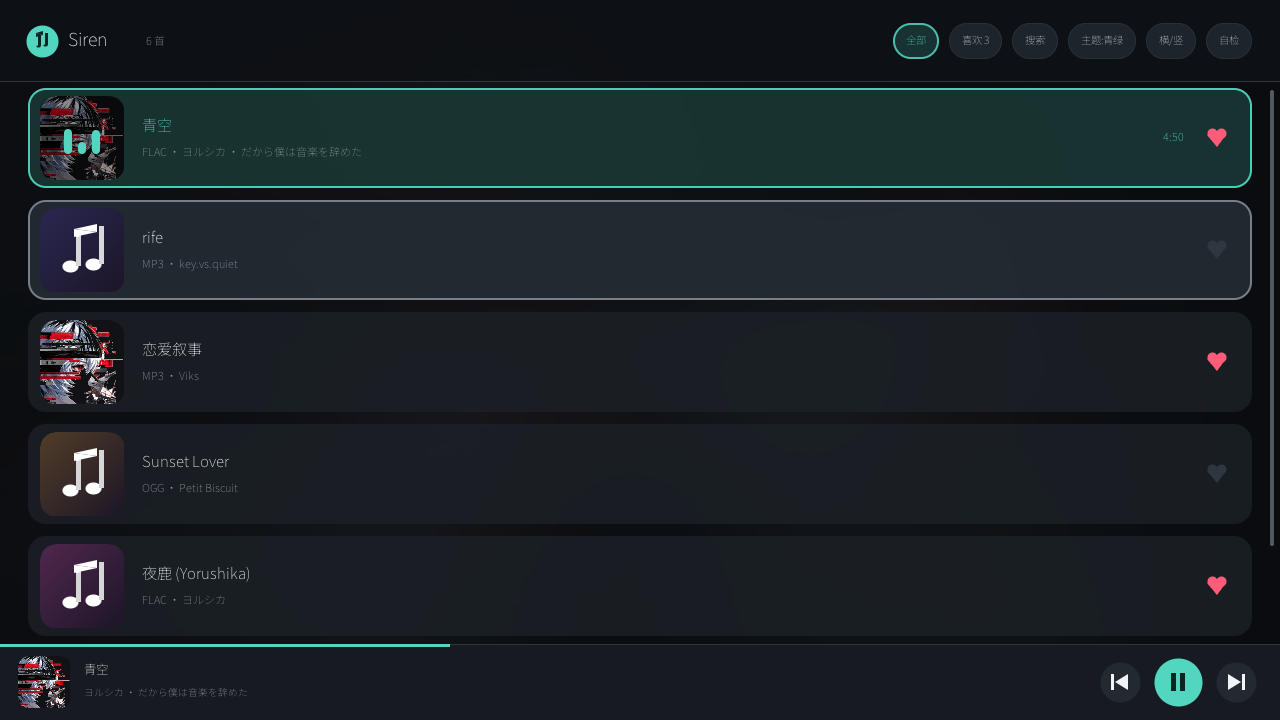
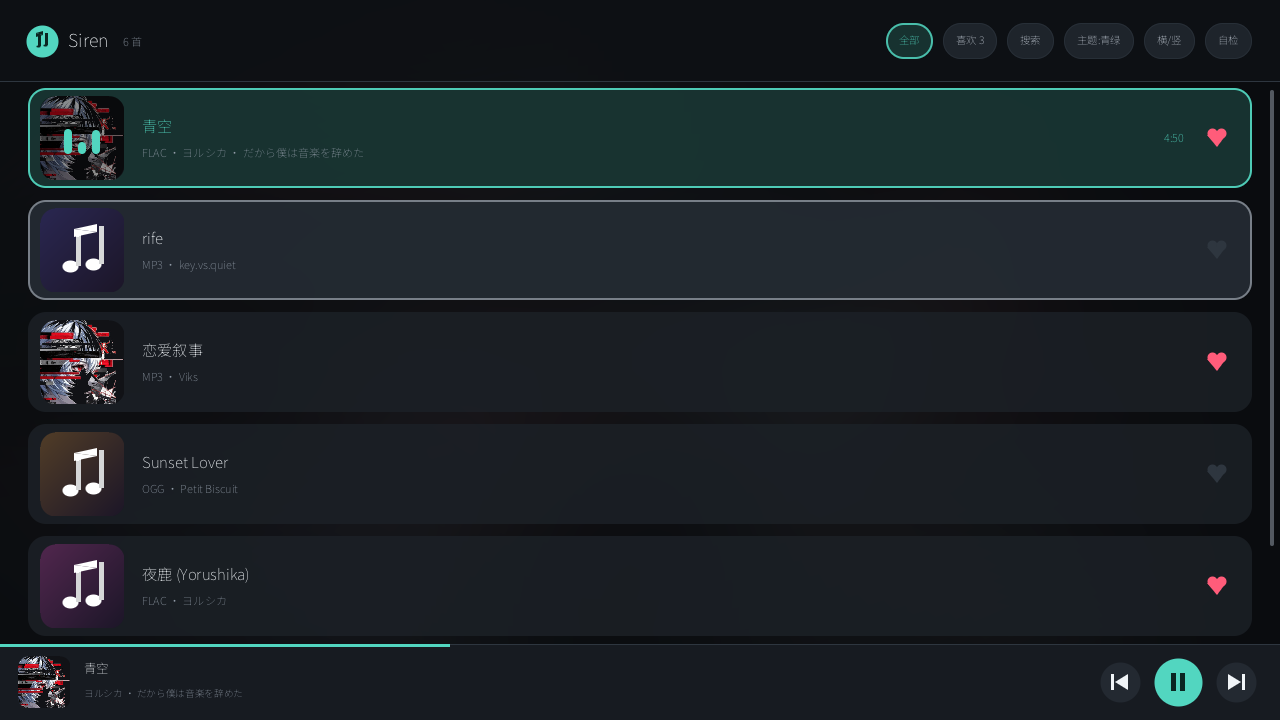
Fix portrait 90-deg rotation mirroring (det=+1), float glyph advance & portrait typography

diff --git a/src/main.c b/src/main.c
@@ -59,12 +59,12 @@ static void update_layout(void) {
     L_M = portrait() ? 22 : 28;
     L_THUMB = 84;
     if (portrait()) {
-        L_TOP = 134;
-        L_BAR = 92;
-        L_ROW = 130;
-        L_TITLE = 25;
-        L_ART = 17;
-        L_ARTIST2 = 15;
+        L_TOP = 138;
+        L_BAR = 96;
+        L_ROW = 134;
+        L_TITLE = 27;
+        L_ART = 18;
+        L_ARTIST2 = 16;
     } else {
         L_TOP = 82;
         L_BAR = 76;
@@ -1269,7 +1269,8 @@ static void draw_list(void) {
         if (view == VIEW_SEARCH && search_q[0]) snprintf(sub, sizeof(sub), "%d 首匹配", nvisible);
         else if (view == VIEW_FAVORITE) snprintf(sub, sizeof(sub), "%d 首收藏", nvisible);
         else snprintf(sub, sizeof(sub), "%d 首", ntracks);
-        draw_text(screen, font, 16, 146, 33, C_TXT3, sub);
+        int cnt_x = 68 + text_width(font, 26, "Siren") + 14;
+        draw_text(screen, font, 16, cnt_x, 33, C_TXT3, sub);
 
         int px = SCR_W - L_M;
         int ph = 36, py = 23;
@@ -1297,36 +1298,39 @@ static void draw_list(void) {
         int aw = text_width(font, 15, "全部") + 26;
         px -= aw + 10; rc_tab_all = draw_pill_btn(px, py, ph, 15, "全部", view == VIEW_HOME, C_PRIMARY);
     } else {
-        fill_ellipse_aa(screen, 38, 36, 16, 16, C_PRIMARY);
-        draw_note(screen, 29, 27, 18, C_ONPRIM);
-        draw_text(screen, font, 26, 64, 21, C_TXT, "Siren");
+        fill_ellipse_aa(screen, 38, 37, 16, 16, C_PRIMARY);
+        draw_note(screen, 29, 28, 18, C_ONPRIM);
+        draw_text(screen, font, 28, 64, 21, C_TXT, "Siren");
 
         char sub[64];
-        snprintf(sub, sizeof(sub), "%d 首", nvisible);
-        draw_text(screen, font, 15, 142, 30, C_TXT3, sub);
+        if (view == VIEW_SEARCH && search_q[0]) snprintf(sub, sizeof(sub), "%d 首匹配", nvisible);
+        else if (view == VIEW_FAVORITE) snprintf(sub, sizeof(sub), "%d 首收藏", nvisible);
+        else snprintf(sub, sizeof(sub), "%d 首", nvisible);
+        int cnt_x = 64 + text_width(font, 28, "Siren") + 14;
+        draw_text(screen, font, 17, cnt_x, 30, C_TXT3, sub);
 
         int px = SCR_W - L_M;
-        int dw = text_width(font, 15, "自检") + 24;
-        px -= dw; rc_btn_diag = draw_pill_btn(px, 18, 36, 15, "自检", 0, C_PRIMARY);
-        int ow = text_width(font, 15, "横/竖") + 24;
-        px -= ow + 8; rc_btn_ori = draw_pill_btn(px, 18, 36, 15, "横/竖", ori_mode != 0, C_PRIMARY);
+        int dw = text_width(font, 16, "自检") + 26;
+        px -= dw; rc_btn_diag = draw_pill_btn(px, 18, 38, 16, "自检", 0, C_PRIMARY);
+        int ow = text_width(font, 16, "横/竖") + 26;
+        px -= ow + 10; rc_btn_ori = draw_pill_btn(px, 18, 38, 16, "横/竖", ori_mode != 0, C_PRIMARY);
 
         int x2 = L_M;
-        rc_tab_all = draw_pill_btn(x2, 72, 38, 15, "全部", view == VIEW_HOME, C_PRIMARY);
+        rc_tab_all = draw_pill_btn(x2, 74, 40, 16, "全部", view == VIEW_HOME, C_PRIMARY);
         x2 += rc_tab_all.w + 10;
 
         char fav_lbl[32];
         snprintf(fav_lbl, sizeof(fav_lbl), "喜欢 %d", fav_count);
-        rc_tab_fav = draw_pill_btn(x2, 72, 38, 15, fav_lbl, view == VIEW_FAVORITE, C_HEART);
+        rc_tab_fav = draw_pill_btn(x2, 74, 40, 16, fav_lbl, view == VIEW_FAVORITE, C_HEART);
         x2 += rc_tab_fav.w + 10;
 
         const char* sr_lbl = (view == VIEW_SEARCH && search_q[0]) ? "清除搜索" : "搜索";
-        rc_btn_search = draw_pill_btn(x2, 72, 38, 15, sr_lbl, view == VIEW_SEARCH, C_PRIMARY);
+        rc_btn_search = draw_pill_btn(x2, 74, 40, 16, sr_lbl, view == VIEW_SEARCH, C_PRIMARY);
         x2 += rc_btn_search.w + 10;
 
         char th_lbl[32];
         snprintf(th_lbl, sizeof(th_lbl), "主题:%s", theme_names[cur_theme]);
-        rc_btn_theme = draw_pill_btn(x2, 72, 38, 15, th_lbl, 0, C_PRIMARY);
+        rc_btn_theme = draw_pill_btn(x2, 74, 40, 16, th_lbl, 0, C_PRIMARY);
     }
 
     // 底部迷你播放条
@@ -1351,9 +1355,9 @@ static void draw_list(void) {
         int txt_maxw = SCR_W - txt_x - ctrl_w - 16;
         if (txt_maxw < 80) txt_maxw = 80;
 
-        draw_text_max(screen, font, portrait() ? 20 : 18, txt_x, midy - 22,
+        draw_text_max(screen, font, portrait() ? 22 : 18, txt_x, midy - 23,
                       C_TXT, p_title[0] ? p_title : "Siren", txt_maxw);
-        draw_text_max(screen, font, L_ARTIST2, txt_x, midy + 3,
+        draw_text_max(screen, font, L_ARTIST2, txt_x, midy + 4,
                       C_TXT3, p_artist[0] ? p_artist : p_fmt, txt_maxw);
 
         int bx3 = SCR_W - 44;
@@ -1472,21 +1476,23 @@ static void draw_lyric_or_spectrum(int x0, int x1, int ly_top, int ly_bot, int s
             if (y > ly_bot) break;
             if (dist == 0) {
                 if (centered) {
-                    draw_text_centered_max(screen, font, 25, x0, x1, y, C_PRIMARY, lyr->lines[i].text);
+                    draw_text_centered_max(screen, font, 28, x0, x1, y, C_PRIMARY, lyr->lines[i].text);
                 } else {
                     fill_round_rect_aa(screen, x0, y + 3, 4, 26, 2, C_PRIMARY);
                     draw_text_max(screen, font, 25, x0 + 16, y, C_PRIMARY, lyr->lines[i].text, rw - 16);
                 }
-                y += 48;
+                y += centered ? 52 : 48;
             } else {
-                float px = (dist == -1 || dist == 1) ? 20.0f : 17.0f;
+                float px = centered
+                    ? ((dist == -1 || dist == 1) ? 22.0f : 18.0f)
+                    : ((dist == -1 || dist == 1) ? 20.0f : 17.0f);
                 uint32_t cc = (dist == -1 || dist == 1) ? C_TXT2 : C_TXT3;
                 if (centered) {
                     draw_text_centered_max(screen, font, px, x0, x1, y, cc, lyr->lines[i].text);
                 } else {
                     draw_text_max(screen, font, px, x0 + 16, y, cc, lyr->lines[i].text, rw - 16);
                 }
-                y += (int)px + 20;
+                y += (int)px + (centered ? 22 : 20);
             }
         }
     } else {
@@ -1515,7 +1521,7 @@ static void draw_lyric_or_spectrum(int x0, int x1, int ly_top, int ly_bot, int s
             fill_round_rect_aa_a(screen, bx, py_dot, bw, 4, 2, C_TXT2, 180);
         }
         if (centered) {
-            draw_text_centered(screen, font, 15, x0, x1, spec_hint_y, C_TXT3,
+            draw_text_centered(screen, font, 16, x0, x1, spec_hint_y, C_TXT3,
                                "纯音乐 / 无歌词 · 同目录放入 .lrc 自动同步");
         } else {
             draw_text(screen, font, 15, x0, spec_hint_y, C_TXT3,
@@ -1536,8 +1542,9 @@ static void draw_progress_bar(int py, double pos, double dur) {
     char t1[32], t2[32];
     fmt_time(pos, t1, sizeof(t1));
     fmt_time(dur, t2, sizeof(t2));
-    draw_text(screen, font, 15, ui_px0, py + 18, C_TXT2, t1);
-    draw_text_right(screen, font, 15, ui_px1, py + 18, C_TXT2, t2);
+    float tsz = portrait() ? 16.0f : 15.0f;
+    draw_text(screen, font, tsz, ui_px0, py + 18, C_TXT2, t1);
+    draw_text_right(screen, font, tsz, ui_px1, py + 18, C_TXT2, t2);
 }
 
 static void draw_controls(int cy) {
@@ -1583,9 +1590,15 @@ static void draw_player(void) {
     rc_p_back = (Rect){ 26, 18, 96, 36 };
 
     char top_info[64];
-    snprintf(top_info, sizeof(top_info), "正在播放 · %s · %d/%d", p_fmt[0] ? p_fmt : "AUDIO",
+    snprintf(top_info, sizeof(top_info), "%s · %d/%d", p_fmt[0] ? p_fmt : "AUDIO",
              playing_idx >= 0 ? playing_idx + 1 : 0, ntracks);
-    draw_text_centered(screen, font, 15, 130, SCR_W - 220, 27, C_TXT2, top_info);
+    if (portrait()) {
+        draw_text_centered(screen, font, 16, 128, SCR_W - 196, 27, C_TXT2, top_info);
+    } else {
+        char land_info[80];
+        snprintf(land_info, sizeof(land_info), "正在播放 · %s", top_info);
+        draw_text_centered(screen, font, 16, 130, SCR_W - 220, 27, C_TXT2, land_info);
+    }
 
     int rx = SCR_W - 26;
     int dw = text_width(font, 15, "自检") + 24;
@@ -1643,12 +1656,12 @@ static void draw_player(void) {
         }
         stroke_round_rect_aa(screen, cx, cy, csz, csz, 28, 1, COL(255, 255, 255, 255), 36);
 
-        float tpx = text_width(font, 32, p_title) > (SCR_W - 80) ? 26.0f : 32.0f;
-        draw_text_centered_max(screen, font, tpx, 40, SCR_W - 40, cy + csz + 26, C_TXT, p_title);
-        draw_text_centered_max(screen, font, 19, 40, SCR_W - 40, cy + csz + 74, C_TXT2,
+        float tpx = text_width(font, 36, p_title) > (SCR_W - 80) ? 28.0f : 36.0f;
+        draw_text_centered_max(screen, font, tpx, 40, SCR_W - 40, cy + csz + 24, C_TXT, p_title);
+        draw_text_centered_max(screen, font, 20, 40, SCR_W - 40, cy + csz + 76, C_TXT2,
                                p_artist[0] ? p_artist : "未知艺术家");
 
-        draw_lyric_or_spectrum(40, SCR_W - 40, cy + csz + 128, 956, 920, 952, pos, 1);
+        draw_lyric_or_spectrum(40, SCR_W - 40, cy + csz + 132, 956, 920, 954, pos, 1);
 
         int py = SCR_H - 224;
         ui_px0 = 56; ui_px1 = SCR_W - 56; ui_py = py;
@@ -1824,10 +1837,13 @@ int main(int argc, char** argv) {
 
         if (touch_now.held || touch_now.up) {
             if (ori == ORI_PORT_A) {
-                int nx = touch_now.y, ny = touch_now.x;
+                // 顺时针竖持：硬件 (x, y) -> 竖屏画布 (719 - y, x)
+                int nx = 719 - touch_now.y;
+                int ny = touch_now.x;
                 touch_now.x = nx; touch_now.y = ny;
             } else if (ori == ORI_PORT_B) {
-                int nx = 719 - touch_now.y;
+                // 逆时针竖持：硬件 (x, y) -> 竖屏画布 (y, 1279 - x)
+                int nx = touch_now.y;
                 int ny = 1279 - touch_now.x;
                 touch_now.x = nx; touch_now.y = ny;
             }
@@ -1907,16 +1923,19 @@ int main(int argc, char** argv) {
                 memcpy(dst, src, (size_t)SCR_W * 4);
             }
         } else if (ori == ORI_PORT_A) {
+            // 顺时针竖持 90° 纯旋转 (det=+1)：fb[y][x] = screen(px=719-y, py=x)
             for (int y = 0; y < 720; y++) {
                 uint32_t* d = fb + (size_t)y * stride;
+                int px = 719 - y;
                 for (int x = 0; x < 1280; x++)
-                    d[x] = screen->px[(size_t)x * 720 + y];
+                    d[x] = screen->px[(size_t)x * 720 + px];
             }
         } else {
+            // 逆时针竖持 90° 纯旋转 (det=+1)：fb[y][x] = screen(px=y, py=1279-x)
             for (int y = 0; y < 720; y++) {
                 uint32_t* d = fb + (size_t)y * stride;
                 for (int x = 0; x < 1280; x++)
-                    d[x] = screen->px[(size_t)(1279 - x) * 720 + (719 - y)];
+                    d[x] = screen->px[(size_t)(1279 - x) * 720 + y];
             }
         }
         be_end();

diff --git a/src/draw_text.c b/src/draw_text.c
@@ -128,14 +128,14 @@ int text_width(Font* f, float px, const char* utf8) {
     if (!f || !utf8 || !*utf8) return 0;
     int ipx = (int)(px + 0.5f);
     if (ipx < 1) ipx = 1;
-    int w = 0;
+    float w = 0.0f;
     const char* p = utf8;
     while (*p) {
         uint32_t cp = next_cp(&p);
         Glyph* g = glyph_get(f, ipx, cp);
-        if (g) w += (int)(g->adv + 0.5f);
+        if (g) w += g->adv;
     }
-    return w;
+    return (int)(w + 0.5f);
 }
 
 void draw_text(Canvas* c, Font* f, float px, int x, int y, uint32_t col, const char* utf8) {
@@ -148,15 +148,16 @@ void draw_text(Canvas* c, Font* f, float px, int x, int y, uint32_t col, const c
     int cr = col & 0xFF, cg = (col >> 8) & 0xFF, cb = (col >> 16) & 0xFF;
     uint8_t ca = (col >> 24) & 0xFF;
     if (ca == 0) ca = 255;
-    int cx = x;
+    float fcx = (float)x;
     const char* p = utf8;
     while (*p) {
         uint32_t cp = next_cp(&p);
         Glyph* g = glyph_get(f, ipx, cp);
         if (!g) continue;
+        int cx = (int)(fcx + 0.5f);
         if (g->bmp) {
             int gx = cx + g->x0;
-            int gy = (int)baseline + g->y0;
+            int gy = (int)(baseline + 0.5f) + g->y0;
             for (int j = 0; j < g->bh; j++) {
                 int ty = gy + j;
                 if (ty < 0 || ty >= c->h) continue;
@@ -176,7 +177,7 @@ void draw_text(Canvas* c, Font* f, float px, int x, int y, uint32_t col, const c
                 }
             }
         }
-        cx += (int)(g->adv + 0.5f);
+        fcx += g->adv;
     }
 }
 
@@ -195,7 +196,7 @@ int text_width_max(Font* f, float px, const char* utf8, int max_w) {
     if (!f || !utf8 || !*utf8) return 0;
     int ipx = (int)(px + 0.5f);
     if (ipx < 1) ipx = 1;
-    int w = 0;
+    float w = 0.0f;
     const char* p = utf8;
     const char* ell = "\xE2\x80\xA6"; // …
     int ellw = text_width(f, px, ell);
@@ -203,13 +204,12 @@ int text_width_max(Font* f, float px, const char* utf8, int max_w) {
         uint32_t cp = next_cp(&p);
         Glyph* g = glyph_get(f, ipx, cp);
         if (!g) continue;
-        int adv = (int)(g->adv + 0.5f);
-        if (w + adv > max_w - ellw) {
-            return w + ellw;
+        if (w + g->adv > (float)(max_w - ellw)) {
+            return (int)(w + 0.5f) + ellw;
         }
-        w += adv;
+        w += g->adv;
     }
-    return w;
+    return (int)(w + 0.5f);
 }
 
 int draw_text_max(Canvas* c, Font* f, float px, int x, int y, uint32_t col, const char* utf8, int max_w) {
@@ -220,14 +220,13 @@ int draw_text_max(Canvas* c, Font* f, float px, int x, int y, uint32_t col, cons
     int ellw = text_width(f, px, ell);
     char buf[256];
     const char* p = utf8;
-    int w = 0;
+    float w = 0.0f;
     while (*p) {
         const char* save = p;
         uint32_t cp = next_cp(&p);
         Glyph* g = glyph_get(f, ipx, cp);
         if (!g) continue;
-        int adv = (int)(g->adv + 0.5f);
-        if (w + adv > max_w - ellw) {
+        if (w + g->adv > (float)(max_w - ellw)) {
             size_t n = (size_t)(save - utf8);
             if (n >= sizeof(buf)) n = sizeof(buf) - 1;
             memcpy(buf, utf8, n);
@@ -237,7 +236,7 @@ int draw_text_max(Canvas* c, Font* f, float px, int x, int y, uint32_t col, cons
             draw_text(c, f, px, x, y, col, cat);
             return 1;
         }
-        w += adv;
+        w += g->adv;
     }
     draw_text(c, f, px, x, y, col, utf8);
     return 0;
